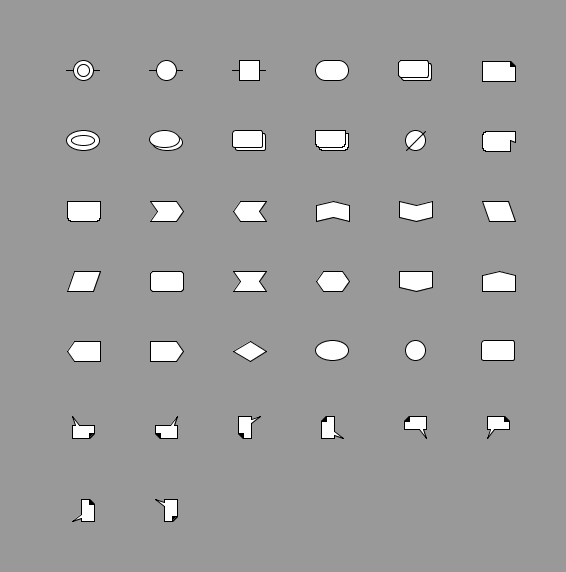
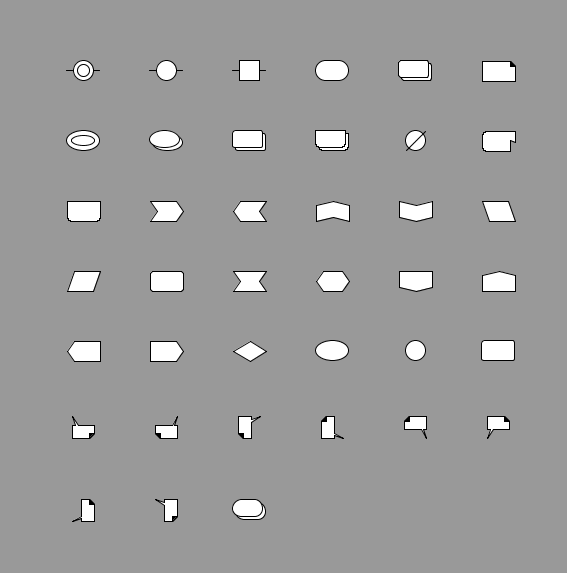
extension: multi stadium shape added (in particular for SBGN)

diff --git a/src/main/java/de/ipk_gatersleben/ag_nw/graffiti/plugins/shapes/SBGNMultiStadiumShape.java b/src/main/java/de/ipk_gatersleben/ag_nw/graffiti/plugins/shapes/SBGNMultiStadiumShape.java
@@ -1,0 +1,136 @@
+/**
+ * Copyright (c) 2016 Monash University, Australia
+ */
+
+// This class provides a multi stadium shape
+// It can be used in particular for SBGN PD maps for the multimer simple chemical glyph
+package de.ipk_gatersleben.ag_nw.graffiti.plugins.shapes;
+
+import java.awt.Shape;
+import java.awt.geom.Line2D;
+import java.awt.geom.Point2D;
+import java.awt.geom.Rectangle2D;
+import java.util.ArrayList;
+import java.util.Collection;
+
+import org.graffiti.attributes.IntegerAttribute;
+import org.graffiti.graphics.NodeGraphicAttribute;
+import org.graffiti.plugin.view.ProvidesAdditonalDrawingShapes;
+import org.graffiti.plugins.views.defaults.RectangleNodeShape;
+
+/**
+ * @author Tobias Czauderna
+ */
+@SuppressWarnings("nls")
+public class SBGNMultiStadiumShape extends RectangleNodeShape implements ProvidesAdditonalDrawingShapes {
+	
+	ArrayList<Shape> shapes = null;
+	SBGNMultiStadiumShape sbgnMultiStadiumShape = null;
+	
+	private int iOffX = 10;
+	private int iOffY = 10;
+	
+	public SBGNMultiStadiumShape() {
+		
+		this.addSx = this.iOffX + 1;
+		this.addSy = this.iOffY + 1;
+		this.sbgnMultiStadiumShape = new SBGNMultiStadiumShape(true);
+		this.shapes = new ArrayList<>();
+		this.shapes.add(this.sbgnMultiStadiumShape);
+		
+	}
+	
+	@SuppressWarnings("unused")
+	public SBGNMultiStadiumShape(boolean multi) {
+		
+		this.offX = this.iOffX;
+		this.offY = this.iOffY;
+		
+	}
+	
+	@Override
+	public Point2D getIntersection(Line2D line) {
+		
+		Rectangle2D rectangle = getRealBounds2D();
+		double x = rectangle.getCenterX();
+		double y = rectangle.getCenterY();
+		double width = rectangle.getWidth();
+		double heigth = rectangle.getHeight();
+		x -= this.iOffX / 2d;
+		y -= this.iOffY / 2d;
+		width -= this.iOffX;
+		heigth -= this.iOffY;
+		rectangle.setFrame(x - width / 2, y - heigth / 2, width, heigth);
+		
+		double rounding = getRounding() / 2;
+		
+		return RectangleNodeShape.getIntersectionOfRoundRectangleAndLine(line, rectangle, rounding);
+		
+	}
+	
+	@Override
+	public void buildShape(NodeGraphicAttribute graphics) {
+		
+		if (!graphics.getCollection().containsKey("offX"))
+			graphics.add(new IntegerAttribute("offX", this.iOffX), false);
+		this.iOffX = ((IntegerAttribute) graphics.getAttribute("offX")).getInteger();
+		
+		if (!graphics.getCollection().containsKey("offY"))
+			graphics.add(new IntegerAttribute("offY", this.iOffY), false);
+		this.iOffY = ((IntegerAttribute) graphics.getAttribute("offY")).getInteger();
+		
+		this.addSx = this.iOffX + 1;
+		this.addSy = this.iOffY + 1;
+		
+		if (this.sbgnMultiStadiumShape == null) {
+			this.offX = this.iOffX;
+			this.offY = this.iOffY;
+		}
+		
+		super.buildShape(graphics);
+		
+		if (this.sbgnMultiStadiumShape != null) {
+			this.sbgnMultiStadiumShape.buildShape(this.nodeAttr);
+		}
+		
+	}
+	
+	@Override
+	public Collection<Shape> getPreBorderShapes() {
+		
+		if (this.sbgnMultiStadiumShape != null) {
+			return this.shapes;
+		}
+		return null;
+		
+	}
+	
+	@Override
+	public Collection<Shape> getPostBorderShapes() {
+		
+		return null;
+		
+	}
+	
+	@Override
+	public int shapeWidthCorrection() {
+		
+		return -this.addSx;
+		
+	}
+	
+	@Override
+	public int shapeHeightCorrection() {
+		
+		return -this.addSy;
+		
+	}
+	
+	@Override
+	protected double getRounding() {
+		
+		return this.nodeAttr.getDimension().getHeight();
+		
+	}
+	
+}

diff --git a/src/main/java/org/AttributeHelper.java b/src/main/java/org/AttributeHelper.java
@@ -3473,6 +3473,8 @@ public class AttributeHelper implements HelperClass {
 			return "de.ipk_gatersleben.ag_nw.graffiti.plugins.shapes.DoubleEllipseShape";
 		if (s.equals("sbgnstadium"))
 			return "de.ipk_gatersleben.ag_nw.graffiti.plugins.shapes.SBGNStadiumShape";
+		if (s.equals("sbgnmultistadium"))
+			return "de.ipk_gatersleben.ag_nw.graffiti.plugins.shapes.SBGNMultiStadiumShape";
 		if (s.equals("sbgnprocess"))
 			return "de.ipk_gatersleben.ag_nw.graffiti.plugins.shapes.SBGNProcessShape";
 		if (s.equals("sbgncircle"))
@@ -3506,9 +3508,9 @@ public class AttributeHelper implements HelperClass {
 				"Tag (down)", "Phenotype", "Perturbation", "Complex", "Skewed Rect (right)", "Skewed Rect (left)",
 				"Receptor (down)", "Receptor (up)", "Receptor (left)", "Receptor (right)", "Nucleic Acid Feature",
 				"Truncated Protein", "Empty Set", "Multi Rectangle", "Multi Oval", "Multi Nucleic Acid Feature",
-				"Multi Complex", "Double Oval", "SBGN Stadium", "SBGN Process", "SBGN Circle", "SBGN Dissociation",
-				"Paper", "Paper (top-right)", "Paper (right-top)", "Paper (right-bottom)", "Paper (bottom-right)",
-				"Paper (bottom-left)", "Paper (left-bottom)", "Paper (left-top)", "Paper (top-left)" };
+				"Multi Complex", "Double Oval", "SBGN Stadium", "SBGN Multi Stadium", "SBGN Process", "SBGN Circle",
+				"SBGN Dissociation", "Paper", "Paper (top-right)", "Paper (right-top)", "Paper (right-bottom)",
+				"Paper (bottom-right)", "Paper (bottom-left)", "Paper (left-bottom)", "Paper (left-top)", "Paper (top-left)" };
 	}
 	
 	public static String getShapeClassFromDescription(String desc) {
@@ -3524,8 +3526,8 @@ public class AttributeHelper implements HelperClass {
 	public static String[] getShapeClasses() {
 		return new String[] { "rectangle", "circle", "oval", "diamond", "tag", "tagl", "tagu", "tagd", "observable",
 				"pertubation", "complex", "skewrectr", "skewrectl", "receptord", "receptoru", "receptorl", "receptorr",
-				"nucleic", "truncprotein", "sourcesink", "multirectangle", "mulitoval", "multinucleic",
-				"multicomplex", "doubleoval", "sbgnstadium", "sbgnprocess", "sbgncircle", "sbgndissociation",
+				"nucleic", "truncprotein", "sourcesink", "multirectangle", "mulitoval", "multinucleic", "multicomplex",
+				"doubleoval", "sbgnstadium", "sbgnmultistadium", "sbgnprocess", "sbgncircle", "sbgndissociation",
 				"paper", "papertopright", "paperrighttop", "paperrightbottom", "paperbottomright", "paperbottomleft",
 				"paperleftbottom", "paperlefttop", "papertopleft" };
 	}
